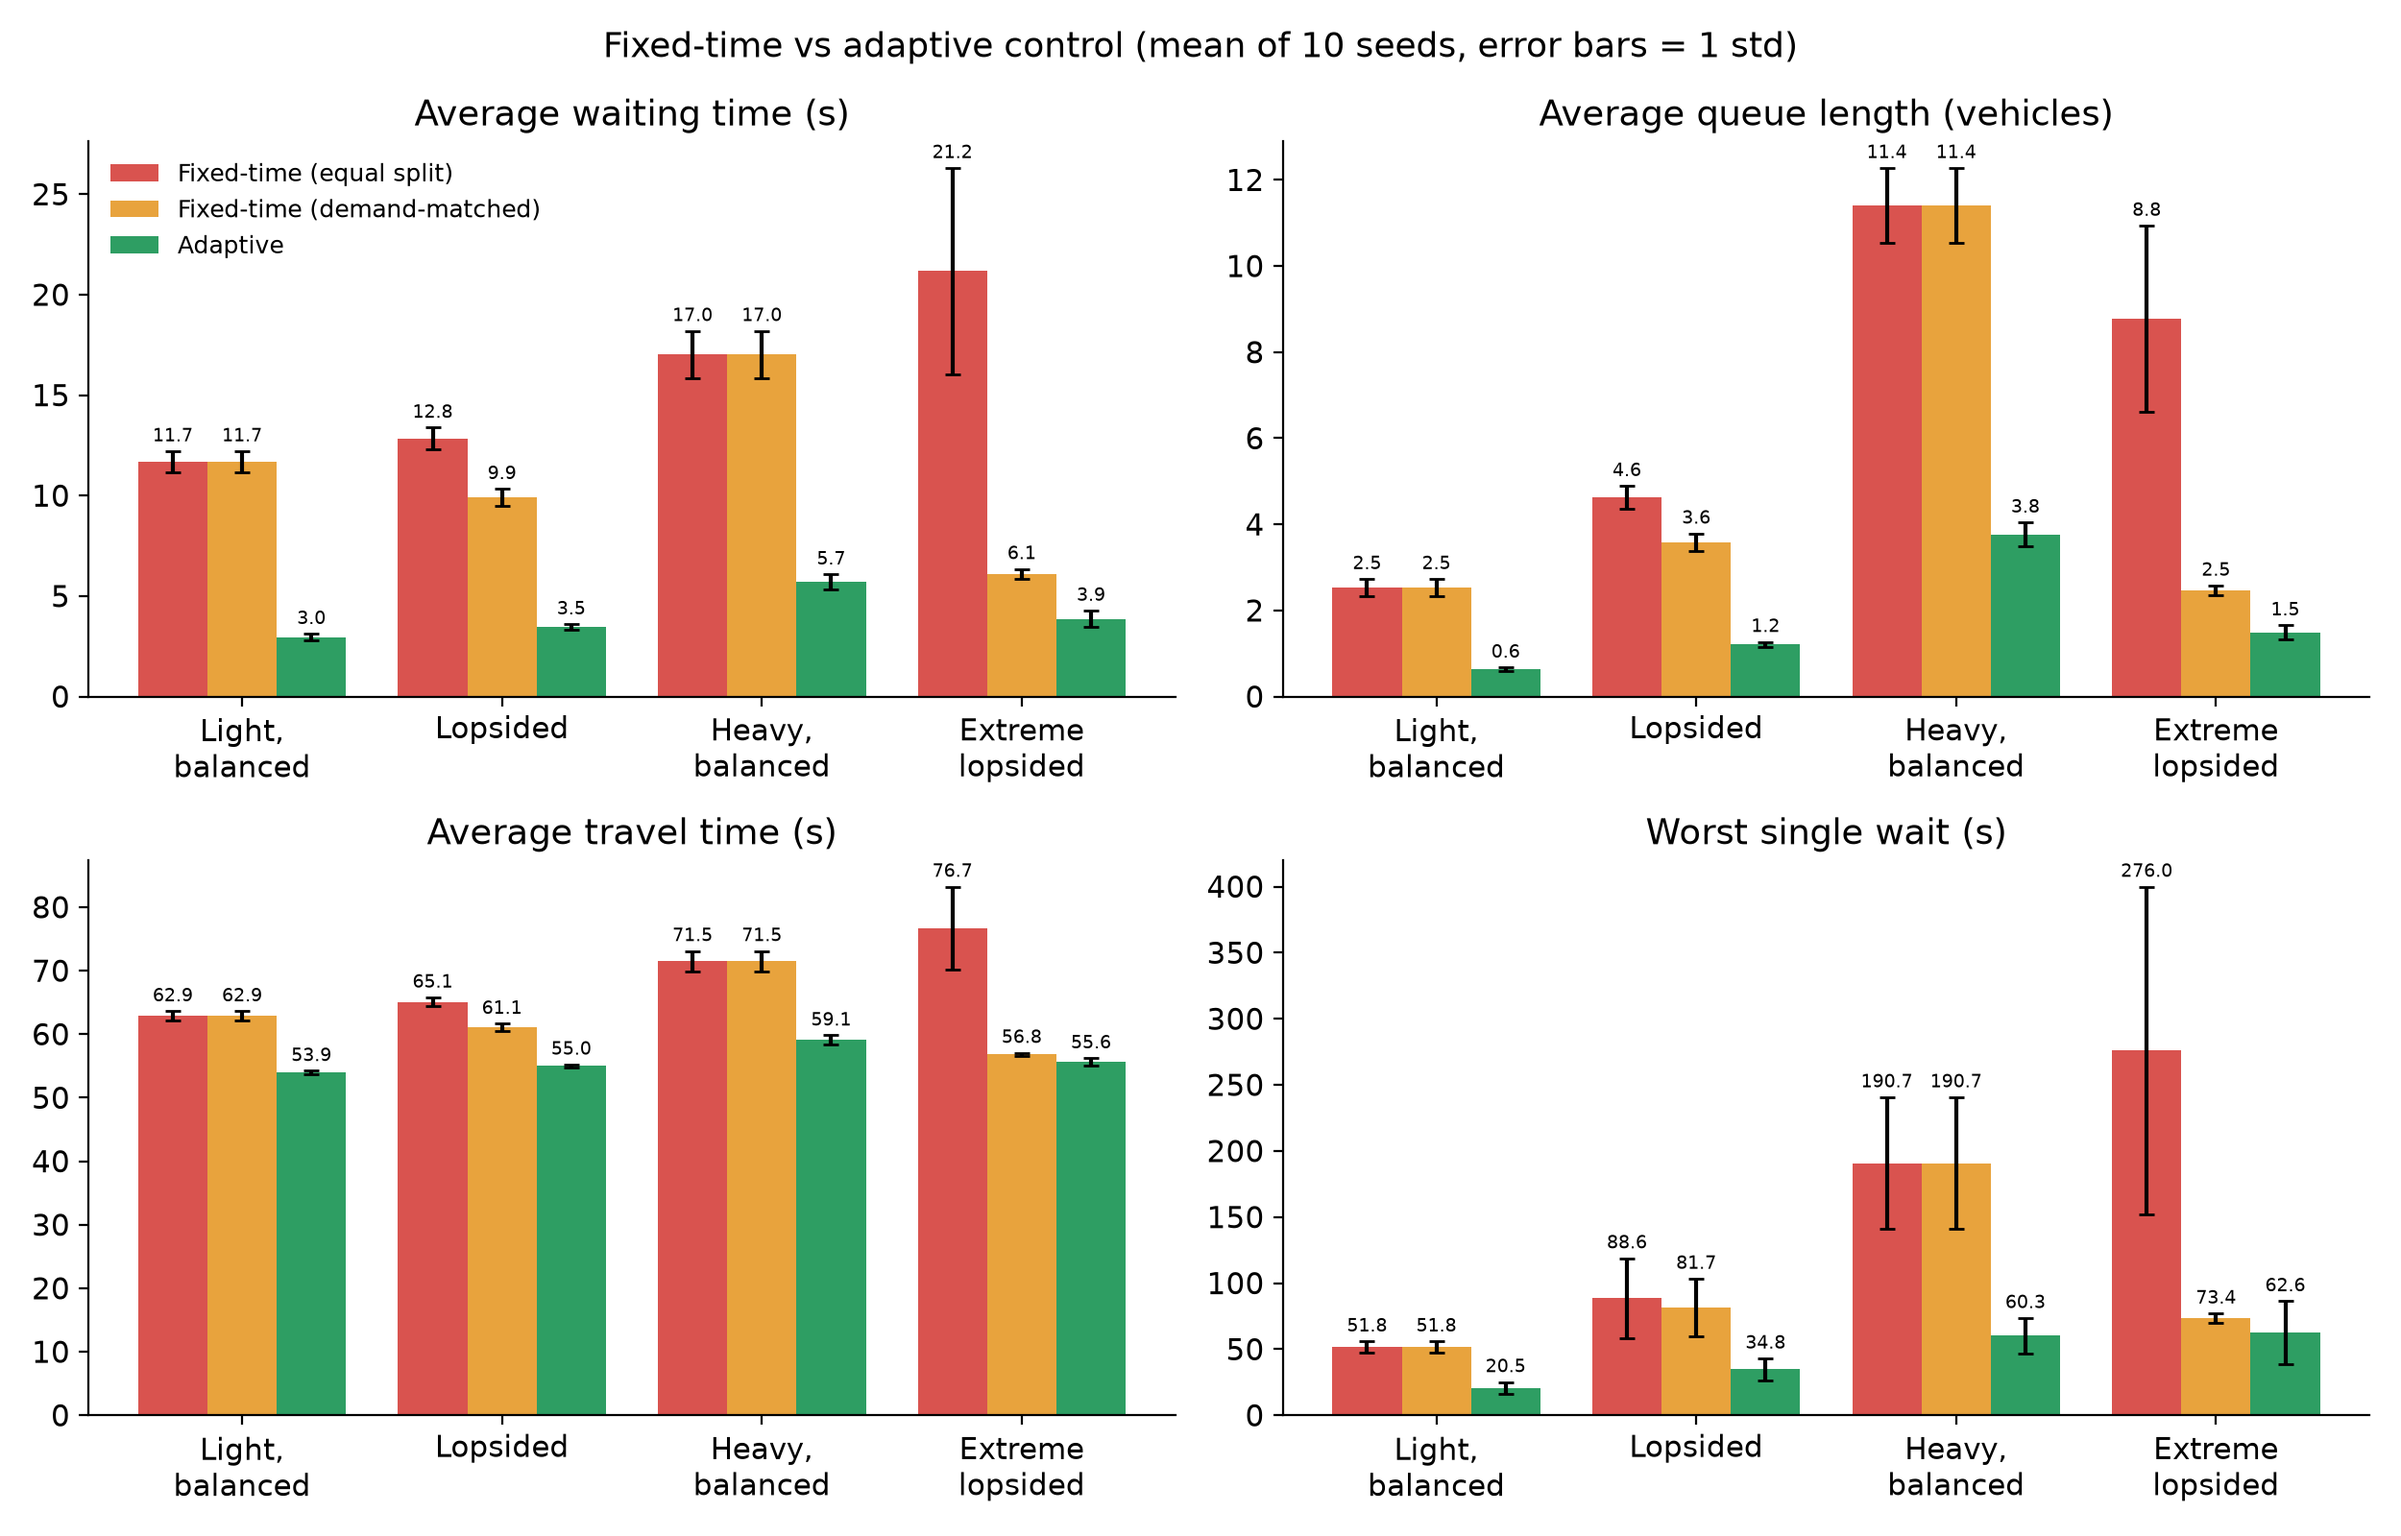
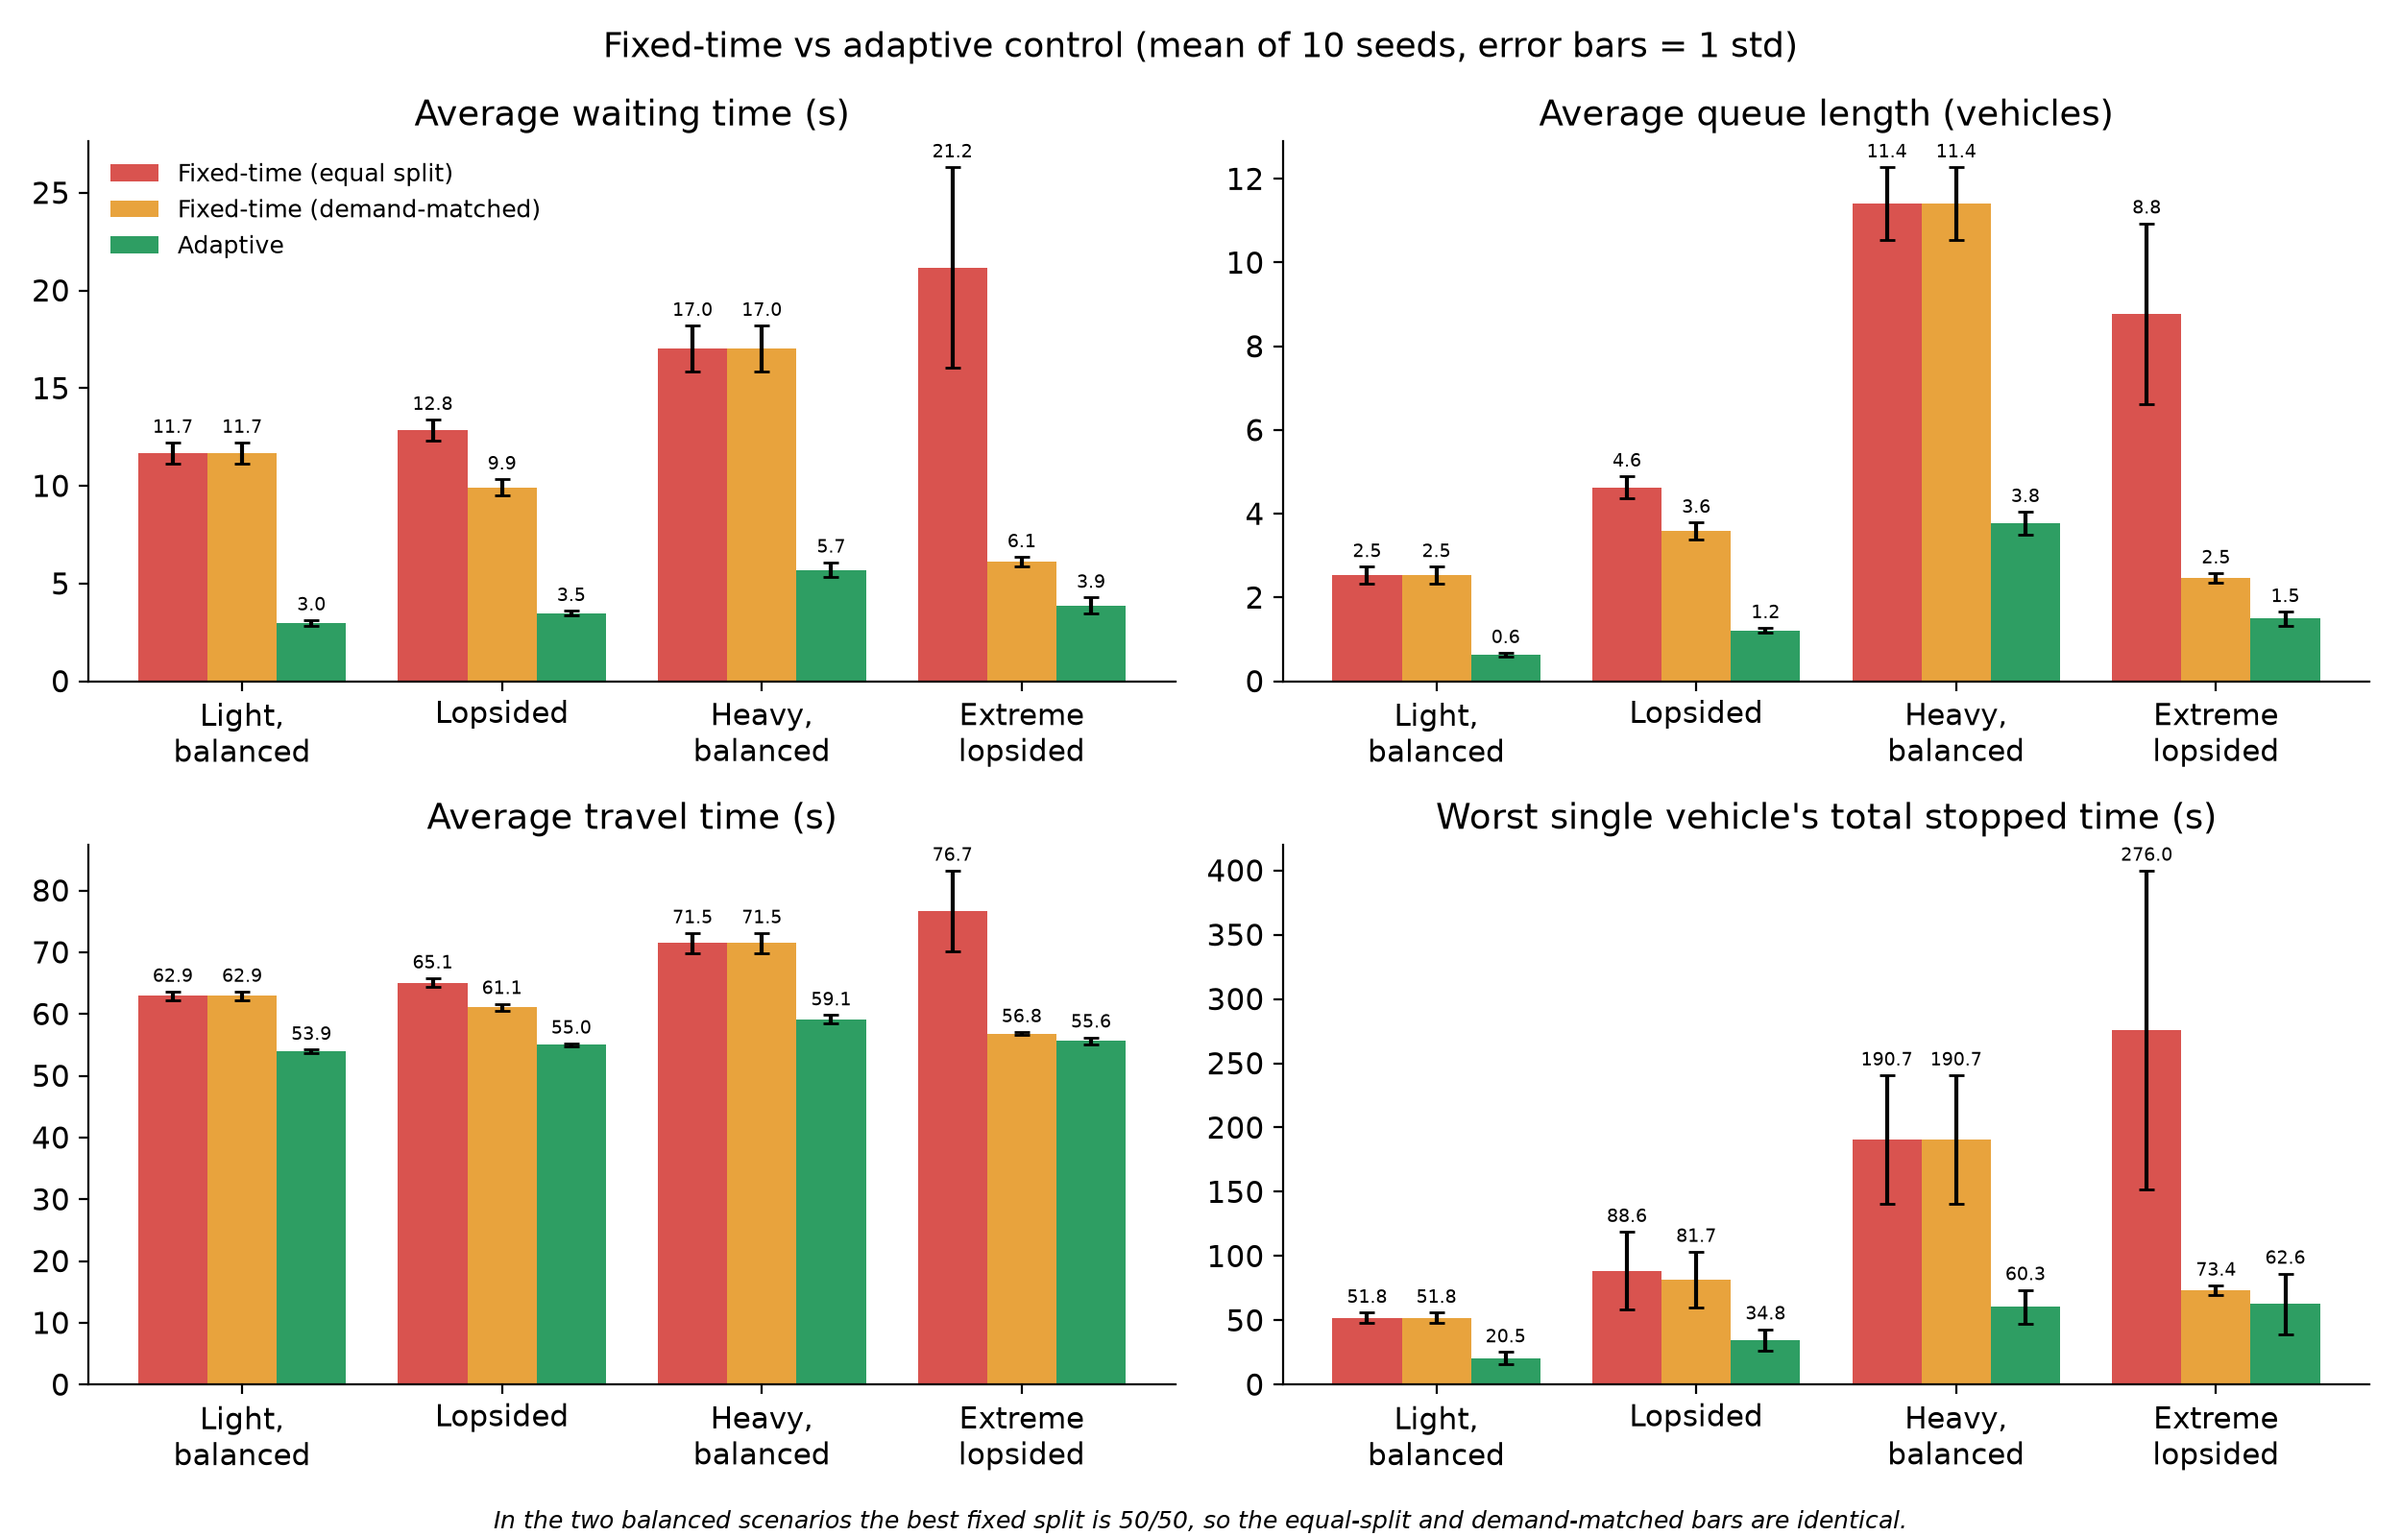
Plot fixes, fairness chart, tuned baseline panels

diff --git a/src/plots.py b/src/plots.py
@@ -32,6 +32,21 @@ def save(fig, name):
     print("saved", path)
 
 
+def grouped_bars(ax, df, col, modes):
+    width = 0.8 / len(modes)
+    for i, m in enumerate(modes):
+        g = df[df["mode"] == m].groupby("scenario")[col]
+        mean = g.mean().reindex(SCEN_ORDER)
+        std = g.std().reindex(SCEN_ORDER)
+        x = [k + (i - (len(modes) - 1) / 2) * width for k in range(len(SCEN_ORDER))]
+        lower = [min(s, mu) for s, mu in zip(std.values, mean.values)]
+        bars = ax.bar(x, mean.values, width, yerr=[lower, std.values], capsize=3,
+                      color=COLORS[m], label=LABELS[m])
+        ax.bar_label(bars, fmt="%.1f", fontsize=7, padding=2)
+    ax.set_xticks(range(len(SCEN_ORDER)))
+    ax.set_xticklabels([SCEN_NAMES[s] for s in SCEN_ORDER])
+
+
 def scenario_comparison():
     path = os.path.join(RES, "experiments_raw.csv")
     if not os.path.exists(path):
@@ -42,30 +57,43 @@ def scenario_comparison():
     metrics = [("avg_waiting_time_s", "Average waiting time (s)"),
                ("avg_queue_length_veh", "Average queue length (vehicles)"),
                ("avg_travel_time_s", "Average travel time (s)"),
-               ("max_wait_any_vehicle_s", "Worst single wait (s)")]
+               ("max_wait_any_vehicle_s", "Worst single vehicle's total stopped time (s)")]
     fig, axes = plt.subplots(2, 2, figsize=(12.5, 8))
-    width = 0.8 / len(modes)
     for ax, (col, title) in zip(axes.flat, metrics):
-        for i, m in enumerate(modes):
-            g = df[df["mode"] == m].groupby("scenario")[col]
-            mean = g.mean().reindex(SCEN_ORDER)
-            std = g.std().reindex(SCEN_ORDER)
-            x = [k + (i - (len(modes) - 1) / 2) * width for k in range(len(SCEN_ORDER))]
-            bars = ax.bar(x, mean.values, width, yerr=std.values, capsize=3,
-                          color=COLORS[m], label=LABELS[m])
-            ax.bar_label(bars, fmt="%.1f", fontsize=7, padding=2)
-        ax.set_xticks(range(len(SCEN_ORDER)))
-        ax.set_xticklabels([SCEN_NAMES[s] for s in SCEN_ORDER])
+        grouped_bars(ax, df, col, modes)
         ax.set_title(title)
     axes[0, 0].legend(frameon=False, fontsize=9)
     n = df["seed"].nunique()
     fig.suptitle(f"Fixed-time vs adaptive control (mean of {n} seeds, error bars = 1 std)",
                  fontsize=13)
-    save(fig, "scenario_comparison.png")
+    fig.text(0.5, 0.005, "In the two balanced scenarios the best fixed split is 50/50, "
+             "so the equal-split and demand-matched bars are identical.",
+             ha="center", fontsize=9, style="italic")
+    fig.tight_layout(rect=(0, 0.02, 1, 1))
+    path_out = os.path.join(OUT, "scenario_comparison.png")
+    fig.savefig(path_out, dpi=200)
+    plt.close(fig)
+    print("saved", path_out)
+
+
+def fairness():
+    path = os.path.join(RES, "experiments_raw.csv")
+    if not os.path.exists(path):
+        print("experiments_raw.csv not found - skipping fairness")
+        return
+    df = pd.read_csv(path)
+    modes = [m for m in ("fixed", "tuned", "adaptive") if m in set(df["mode"])]
+    fig, ax = plt.subplots(figsize=(10, 5))
+    grouped_bars(ax, df, "worst_approach_avg_wait_s", modes)
+    ax.set_ylabel("Seconds")
+    ax.set_title("Fairness: average wait on the worst-treated approach\n"
+                 "(lower = no road is sacrificed for the others)")
+    ax.legend(frameon=False)
+    save(fig, "fairness_comparison.png")
 
 
 def queue_over_time():
-    fig, ax = plt.subplots(figsize=(11, 4.5))
+    fig, ax = plt.subplots(figsize=(11, 4.8))
     drawn = False
     for m in ("fixed", "tuned", "adaptive"):
         p = os.path.join(RES, f"{m}_timeseries.csv")
@@ -79,33 +107,36 @@ def queue_over_time():
         plt.close(fig)
         print("no *_timeseries.csv files - skipping queue_over_time")
         return
+    ax.set_xlim(left=0)
+    ax.set_ylim(0, ax.get_ylim()[1] * 1.2)
     ax.set_xlabel("Simulation time (s)")
     ax.set_ylabel("Vehicles queued (30 s moving average)")
-    ax.set_title("Total queue over time, same traffic (seed 42)")
-    ax.legend(frameon=False)
+    ax.set_title("Total queue over time - one run, seed 42, lopsided demand")
+    ax.legend(frameon=False, loc="upper center", ncol=3)
     save(fig, "queue_over_time.png")
 
 
 def per_approach():
     names = {"left0A0": ("West", "-"), "right0A0": ("East", "-"),
              "top0A0": ("North", "--"), "bottom0A0": ("South", "--")}
-    pairs = [m for m in ("fixed", "adaptive")
+    modes = [m for m in ("fixed", "tuned", "adaptive")
              if os.path.exists(os.path.join(RES, f"{m}_timeseries.csv"))]
-    if len(pairs) < 2:
-        print("need fixed and adaptive timeseries - skipping per_approach")
+    if len(modes) < 2:
+        print("need at least two *_timeseries.csv files - skipping per_approach")
         return
-    fig, axes = plt.subplots(1, 2, figsize=(13, 4.5), sharey=True)
+    fig, axes = plt.subplots(1, len(modes), figsize=(5.5 * len(modes), 4.5), sharey=True)
     palette = ["#1f77b4", "#ff7f0e", "#2ca02c", "#9467bd"]
-    for ax, m in zip(axes, pairs):
+    for ax, m in zip(axes, modes):
         ts = pd.read_csv(os.path.join(RES, f"{m}_timeseries.csv"))
         for (edge, (name, style)), c in zip(names.items(), palette):
             ax.plot(ts["time"], ts[edge].rolling(30, min_periods=1).mean(),
-                    linestyle=style, color=c, label=name, linewidth=1.6)
+                    linestyle=style, color=c, label=name, linewidth=1.5)
         ax.set_title(LABELS[m])
+        ax.set_xlim(left=0)
         ax.set_xlabel("Simulation time (s)")
     axes[0].set_ylabel("Vehicles queued (30 s moving average)")
-    axes[1].legend(frameon=False, title="Approach (dashed = light road)")
-    fig.suptitle("Queue on each approach: no road is starved under adaptive control")
+    axes[-1].legend(frameon=False, title="Approach (dashed = light road)")
+    fig.suptitle("Queue on each approach - one run, seed 42, lopsided demand")
     save(fig, "per_approach_queues.png")
 
 
@@ -126,8 +157,9 @@ def emergency():
         sub = df[df["mode"] == m]
         means = [sub[c].mean() for c, _ in groups]
         stds = [sub[c].std() for c, _ in groups]
+        lower = [min(s, mu) for s, mu in zip(stds, means)]
         x = [k + (i - 0.5) * width for k in range(len(groups))]
-        bars = ax.bar(x, means, width, yerr=stds, capsize=3, color=color, label=label)
+        bars = ax.bar(x, means, width, yerr=[lower, stds], capsize=3, color=color, label=label)
         ax.bar_label(bars, fmt="%.1f", padding=3)
     ax.set_xticks(range(len(groups)))
     ax.set_xticklabels([g[1] for g in groups])
@@ -139,6 +171,7 @@ def emergency():
 
 if __name__ == "__main__":
     scenario_comparison()
+    fairness()
     queue_over_time()
     per_approach()
     emergency()
